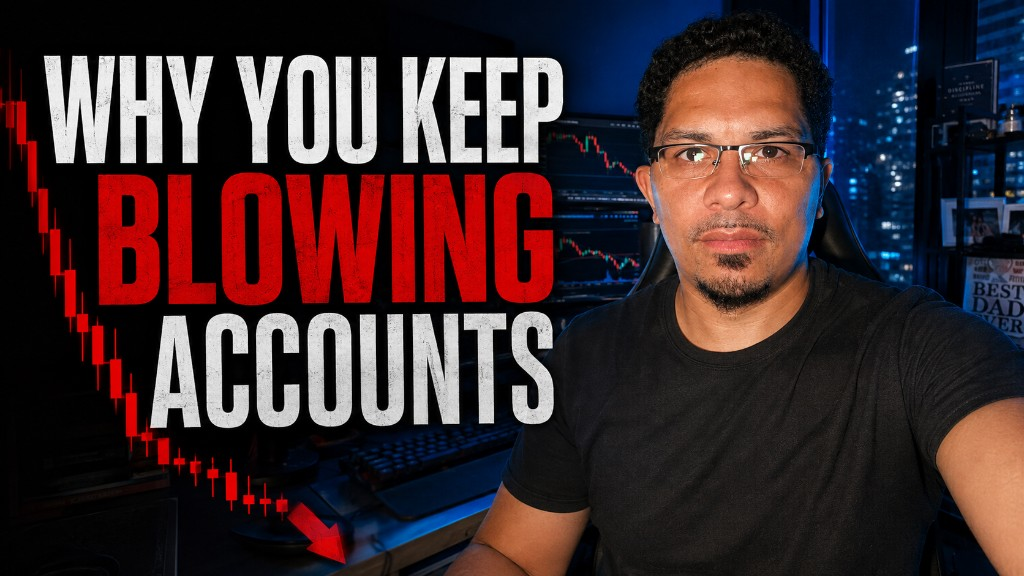
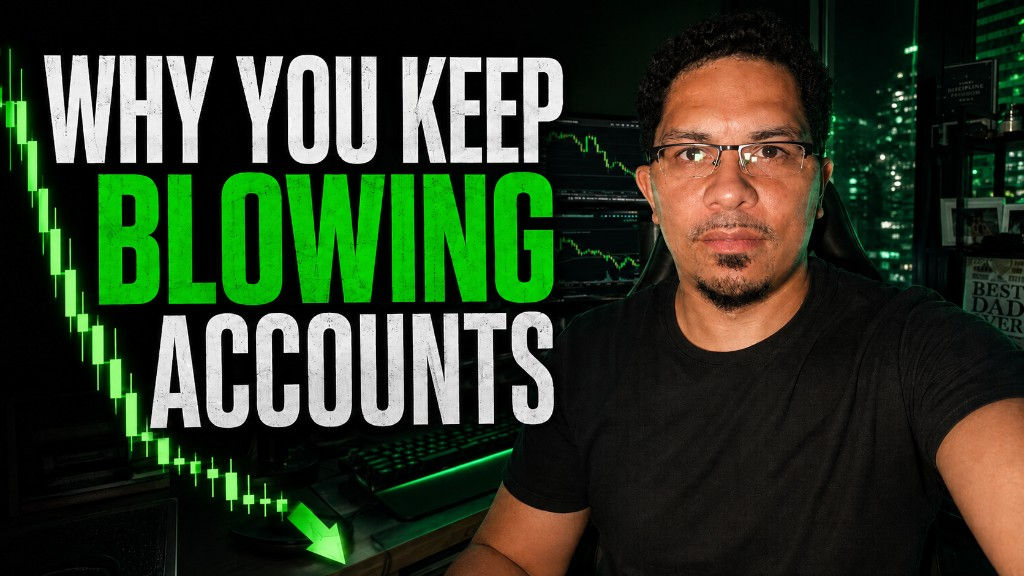
ok

diff --git a/src/App.jsx b/src/App.jsx
@@ -29,7 +29,7 @@ function App() {
   return <div className="site">
 
     <main>
-      <section className="hero grid-bg" id="home"><div className="glow"/><div className="container hero-grid"><div className="hero-copy"><h1>Tired of Blowing Accounts and Starting Over? <em>Watch the Video Below.</em></h1><p>Go from confused and inconsistent to trading with a clear strategy, defined rules, stronger risk management, and confidence.</p></div><div className="hero-media"><button className="video" onClick={()=>setVideo(true)} aria-label="Play the Wealthy Visions video"><img src="/vsl-thumbnail.png?v=2" alt="Why you keep blowing accounts — watch the video"/><span className="play-pulse" aria-hidden="true"><Play fill="currentColor" size={36}/></span></button><small className="risk"><ShieldCheck/> Coaching provides education and accountability—not guaranteed trading outcomes. Trading involves substantial risk.</small></div></div></section>
+      <section className="hero grid-bg" id="home"><div className="glow"/><div className="container hero-grid"><div className="hero-copy"><h1>Tired of Blowing Accounts and Starting Over? <em>Watch the Video Below.</em></h1><p>Go from confused and inconsistent to trading with a clear strategy, defined rules, stronger risk management, and confidence.</p></div><div className="hero-media"><button className="video" onClick={()=>setVideo(true)} aria-label="Play the Wealthy Visions video"><img src="/vsl-thumbnail.png?v=3" alt="Why you keep blowing accounts — watch the video"/><span className="play-pulse" aria-hidden="true"><Play fill="currentColor" size={36}/></span></button><small className="risk"><ShieldCheck/> Coaching provides education and accountability—not guaranteed trading outcomes. Trading involves substantial risk.</small></div></div></section>
 
       <section className="section founder" id="about"><div className="container founder-grid"><div className="portrait"><img src="/abel-melendez-founder.png" alt="Abel Melendez, founder of Wealthy Visions"/><div><b>TRADING SINCE</b><strong>2015</strong></div></div><div><Head over="MEET THE FOUNDER" title="Helping Traders Replace Confusion With Structure."/><p>Abel Melendez is a trader, educator, and founder of Wealthy Visions Academy. Since beginning his trading journey in 2015, he has gained experience across forex and futures while helping traders understand liquidity, market structure, risk management, and disciplined execution.</p><p>After seeing traders repeatedly struggle with strategy hopping, emotional decisions, and blown accounts, Abel created Wealthy Visions to provide direct guidance, honest feedback, and accountability—not more noise.</p><p>His mission is to help traders refine what they already know, correct the habits holding them back, and build a clear process they can execute independently.</p><div className="signature">Abel Melendez <span>— Founder, Wealthy Visions</span></div></div></div></section>
 
